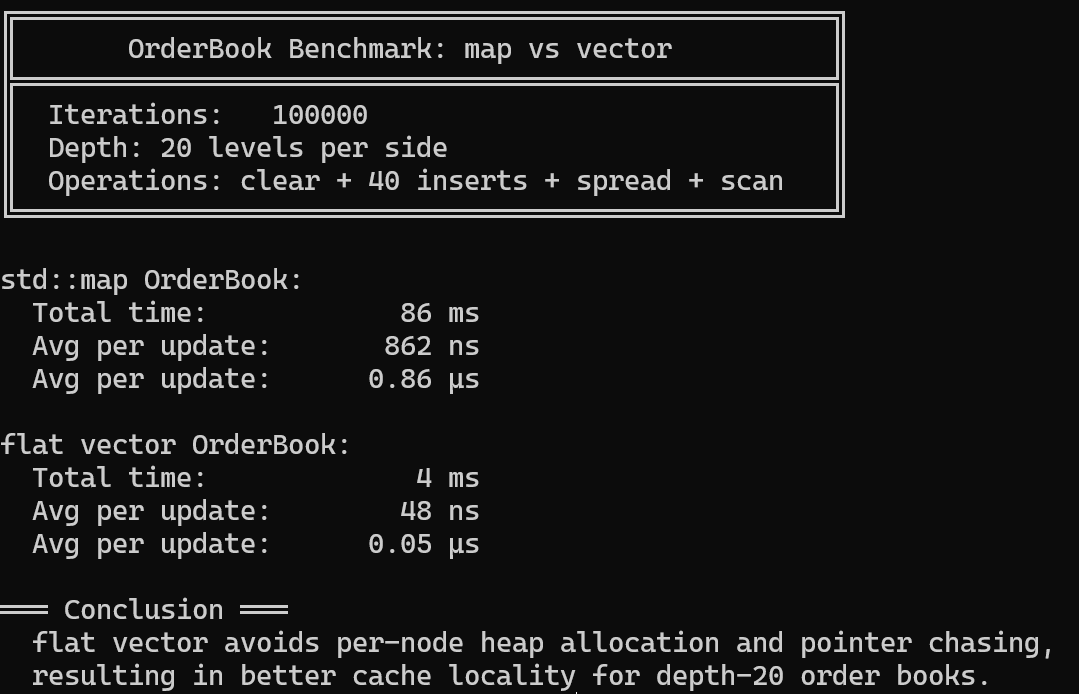
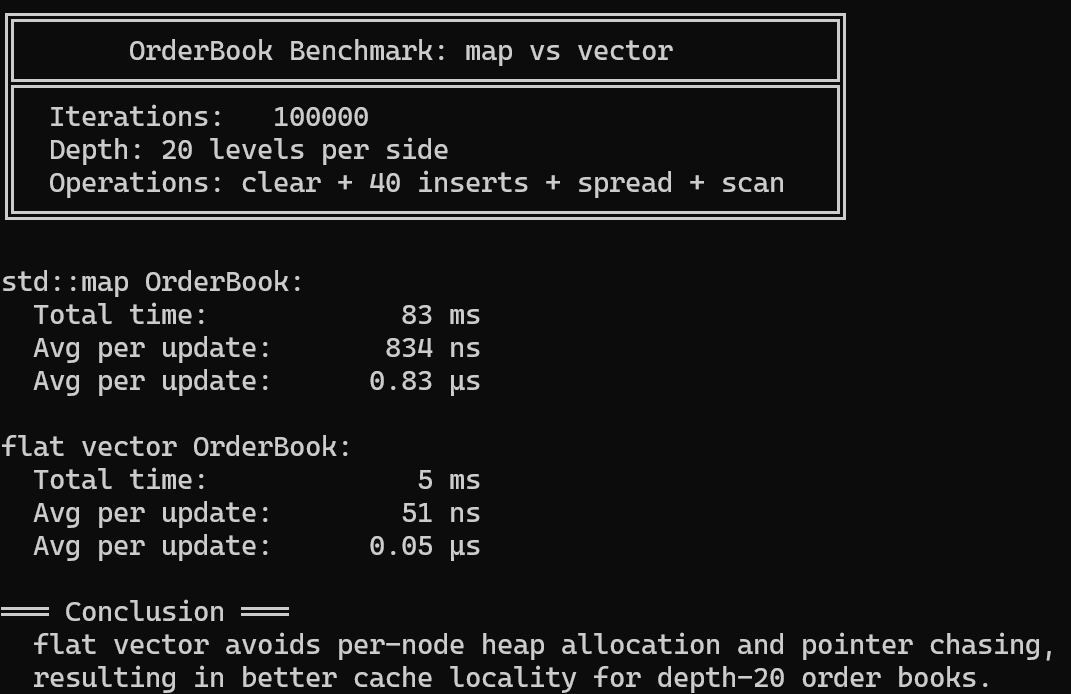
docs: update README and fix display formatting

diff --git a/src/main.cpp b/src/main.cpp
@@ -86,16 +86,6 @@ int main() {
         OrderBook binance_book = binance_feed.getOrderBookSnapshot();
         OrderBook okx_book = okx_feed.getOrderBookSnapshot();
 
-        // 套利检测
-        bool signal_found = detector.detect(binance_book, okx_book);
-
-        if (signal_found) {
-            auto& signals = detector.getSignals();
-            if (!signals.empty()) {
-                logger.logSignal(signals.back());
-            }
-        }
-
         // 周期性记录价差
         loop_count++;
         if (loop_count % cfg.display.spread_log_interval == 0) {
@@ -120,6 +110,16 @@ int main() {
             okx_feed.isRunning(),
             cfg.display.levels
         );
+
+        
+        bool signal_found = detector.detect(binance_book, okx_book);
+
+        if (signal_found) {
+            auto& signals = detector.getSignals();
+            if (!signals.empty()) {
+                logger.logSignal(signals.back());
+            }
+        }
     }
 
     // 优雅退出

diff --git a/include/display.h b/include/display.h
@@ -30,7 +30,7 @@ public:
         std::cout << std::fixed << std::setprecision(2);
 
         std::cout << "╔" << repeat("═", 87) << "╗" << std::endl;
-        std::cout << "║" << center("Crypto HFT Engine v0.2", 87) << "║" << std::endl;
+        std::cout << "║" << center("Crypto HFT Engine v1.0", 87) << "║" << std::endl;
         std::cout << "╚" << repeat("═", 87) << "╝" << std::endl;
         std::cout << std::endl;
 
@@ -116,7 +116,7 @@ private:
 
         std::cout << "  ┌" << line << "┐ ┌" << line << "┐" << std::endl;
         std::cout << "  │" << center(book_a.getSymbol(), ob_width) << "│ │" << center(book_b.getSymbol(), ob_width) << "│" << std::endl;
-        std::cout << "  │" << "    Qty       Price   │   Price        Qty " << "│ │" << "    Qty       Price   │   Price        Qty " << "│" << std::endl;
+        std::cout << "  │" << "   Qty       Price   │  Price       Qty    " << "│ │" << "   Qty       Price   │  Price       Qty    " << "│" << std::endl;
         std::cout << "  ├" << line << "┤ ├" << line << "┤" << std::endl;
 
         int max_rows = std::max({(int)a_bids.size(), (int)a_asks.size(),
@@ -124,9 +124,9 @@ private:
 
         for (int i = 0; i < max_rows; ++i) {
             std::cout << "  │";
-            std::cout << formatRow(a_bids, a_asks, i);
+            std::cout << formatRow(a_bids, a_asks, i) << "  ";
             std::cout << "│ │";
-            std::cout << formatRow(b_bids, b_asks, i);
+            std::cout << formatRow(b_bids, b_asks, i) << "  ";
             std::cout << "│" << std::endl;
         }
 
@@ -154,11 +154,11 @@ private:
         ss << " │ ";
 
         if (i < static_cast<int>(asks.size()) && asks[i].price > 0) {
-            ss << std::setprecision(2) << std::setw(10) << asks[i].price
+            ss << std::setprecision(2) << std::setw(8) << asks[i].price
                << "  "
                << std::setprecision(4) << std::setw(8) << asks[i].quantity;
         } else {
-            ss << std::setw(20) << " ";
+            ss << std::setw(18) << " ";
         }
 
         return ss.str();

diff --git a/include/arbitrage_detector.h b/include/arbitrage_detector.h
@@ -119,14 +119,14 @@ private:
 
     void printSignal(const ArbitrageSignal& s) const {
         std::cout << std::fixed << std::setprecision(4);
-        std::cout << "\n  ╔════════════════ ARBITRAGE DETECTED ═══════════════╗" << std::endl;
+        std::cout << "\n  ╔══════════════════ ARBITRAGE DETECTED ══════════════════╗" << std::endl;
         std::cout << "  ║ BUY  " << std::setw(20) << std::left << s.buy_exchange
-                  << " @ " << std::right << std::setw(12) << s.buy_price << "       ║" << std::endl;
+                  << " @ " << std::right << std::setw(12) << s.buy_price << "               ║" << std::endl;
         std::cout << "  ║ SELL " << std::setw(20) << std::left << s.sell_exchange
-                  << " @ " << std::right << std::setw(12) << s.sell_price << "       ║" << std::endl;
+                  << " @ " << std::right << std::setw(12) << s.sell_price << "               ║" << std::endl;
         std::cout << "  ║ Qty: " << std::setw(10) << s.quantity << " BTC"
                   << "  Gross: $" << std::setw(8) << s.gross_profit
-                  << "  Net: $" << std::setw(8) << s.net_profit << " ║" << std::endl;
-        std::cout << "  ╚═══════════════════════════════════════════════════╝\n" << std::endl;
+                  << "  Net: $" << std::setw(8) << s.net_profit << "  ║" << std::endl;
+        std::cout << "  ╚════════════════════════════════════════════════════════╝\n" << std::endl;
     }
 };

diff --git a/include/market_data_feed.h b/include/market_data_feed.h
@@ -211,7 +211,9 @@ public:
             connect();
             receiveLoop();
         } catch (const std::exception& e) {
-            std::cerr << "[" << config_.name << "] Error: " << e.what() << std::endl;
+            if (running_) {
+                std::cerr << "[" << config_.name << "] Error: " << e.what() << std::endl;
+            }
             running_ = false;
         }
     }